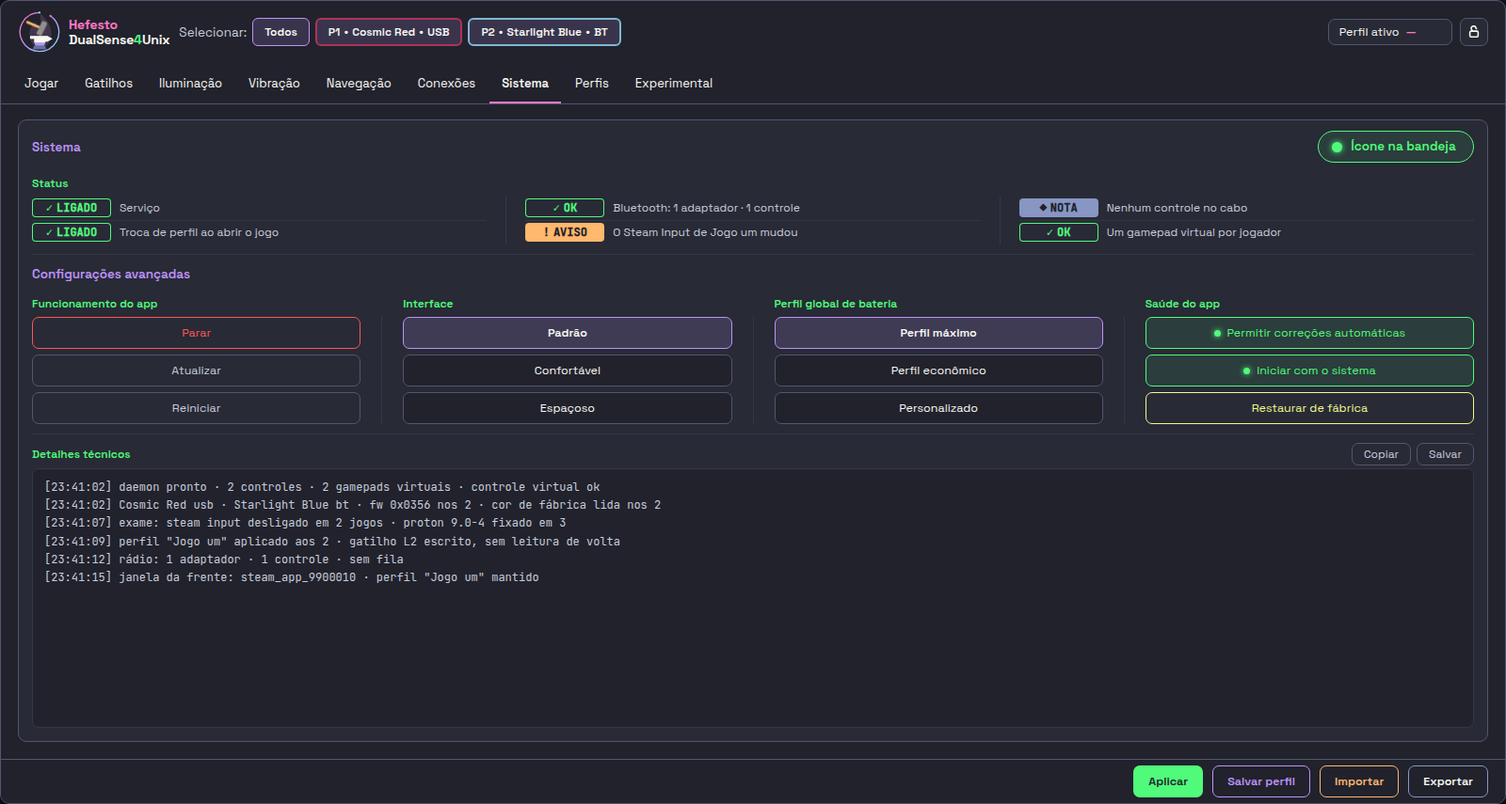
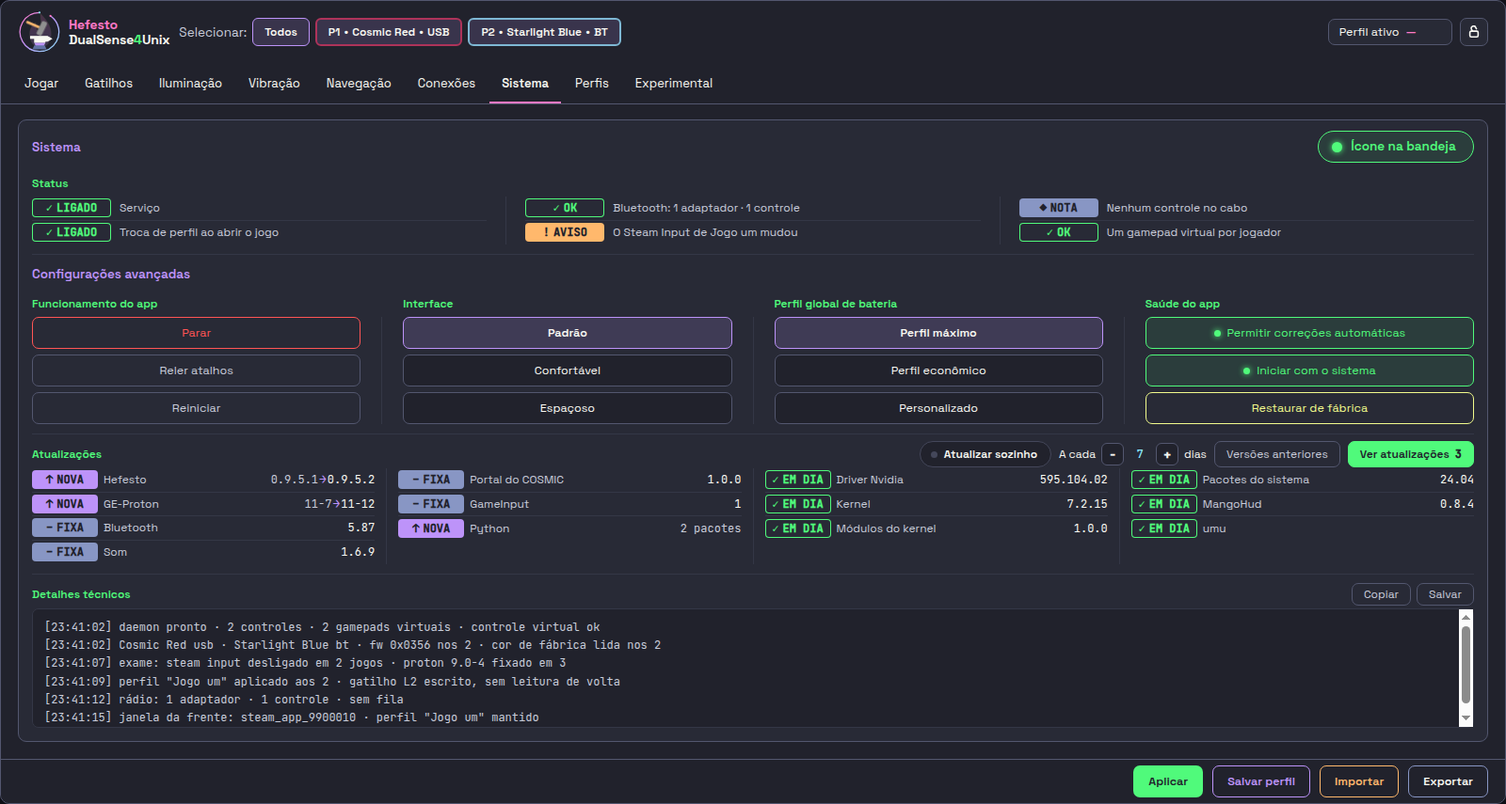
feat(interface): a aba Sistema publicada ganha a seção das atualizações e o «Reler atalhos», o driver se escreve Nvidia, e as citações e as fotos seguem
Origem: D-0811-O-HEFESTO-SE-ATUALIZA-INTEIRO-VOLTA-1

diff --git a/src/hefesto_dualsense4unix/interface/paginas/09-sistema.html b/src/hefesto_dualsense4unix/interface/paginas/09-sistema.html
@@ -424,6 +424,49 @@
   .gl{display:inline-block;vertical-align:-6px;flex:0 0 auto}
   .gls{display:inline-flex;align-items:center;gap:5px}
   .gls .mais{color:var(--fg);font-size:11px;margin:0 1px}
+  .selo.nova{background:var(--purple);color:var(--app-bg)}
+  .at-cab{grid-template-columns:minmax(0,1fr) auto;height:auto}
+  body .sec-rot.at-cab{height:35px !important}
+  .at-cab > span:last-child{display:flex;align-items:center;gap:8px}
+  .at-cab .cadeado{width:auto;height:28px;border-radius:999px;padding:0 14px 0 11px;font-weight:600;font-size:12px}
+  .at-cab .btn{height:28px;padding:0 12px;font-size:12px}
+  .at-cab .btn.verde.cheio{background:var(--green);border-color:var(--green);color:var(--app-bg);font-weight:600;text-decoration:none}
+  .at-cab .btn.verde.cheio:hover{background:color-mix(in srgb,var(--green) 75%,#fff)}
+  .at-cab .btn .n{font-family:'JetBrains Mono',monospace;font-size:12px;margin-left:6px}
+  .prazo{display:inline-block;font-size:12px;font-weight:400;color:var(--fg);white-space:nowrap}
+  .prazo > *{vertical-align:middle;margin-left:6px}
+  .prazo > :first-child{margin-left:0}
+  .prazo .pm{width:24px;height:24px;border-radius:6px;border:1px solid var(--linha);background:var(--app-bg);
+             color:var(--fg);font:600 13px/1 'JetBrains Mono',monospace;cursor:pointer}
+  .prazo .pm:hover{border-color:var(--comment)}
+  .prazo .dias{display:inline-block;min-width:22px;text-align:center;font-family:'JetBrains Mono',monospace;font-weight:500;color:var(--cyan)}
+  .at-grade{display:grid;grid-template-columns:minmax(0,1fr) 1px minmax(0,1fr) 1px minmax(0,1fr) 1px minmax(0,1fr);gap:0 12px;align-items:start}
+  .at-grade .saude .ver{margin-left:auto;font-family:'JetBrains Mono',monospace;font-size:12px;color:var(--texto-suave);white-space:nowrap;min-width:0;display:flex;flex-flow:row-reverse wrap;align-content:flex-start;height:24px;line-height:24px;overflow:hidden}
+  .at-grade .saude .ver:has(.num){display:block;text-align:right;white-space:normal}
+  .at-grade .saude .ver .seta{color:var(--purple);margin:0 3px;flex:none}
+  .at-grade .saude .ver .nv{color:var(--fg);flex:none;order:-1}
+  .at-grade .saude .ver .par{flex:none}
+  .at-grade .saude .ver .num,.at-grade .saude .ver .resto{white-space:nowrap}
+  .at-grade .saude .txt span:last-child{overflow:visible;text-overflow:clip}
+  .at-grade .saude{gap:6px}
+  .at-grade .saude .txt{flex:0 0 auto}
+  body .at-grade .saude .selo{flex:0 0 70px !important;padding-left:4px;padding-right:4px}
+  .at-grade .saude .ver .seta{margin:0 1px}
+  .at-marca{width:16px;height:16px;accent-color:var(--pink);margin:0;flex:0 0 16px;cursor:pointer}
+  .atualiza:not(:has(.at-cab .cadeado.ligada)) .at-marca{display:none}
+  .atualiza:has(.at-cab .cadeado.ligada) .saude:has(.at-marca:not(:checked)) .txt,
+  .atualiza:has(.at-cab .cadeado.ligada) .saude:has(.at-marca:not(:checked)) .ver{color:var(--texto-mudo)}
+  @media (max-height:760px){
+    body .atualiza .sec-alta,body .atualiza + .sec-alta{margin-top:4px !important;padding-top:4px !important}
+    .at-grade{grid-template-columns:repeat(4,minmax(0,1fr));gap:0 24px}
+    .at-grade .saude.fixa{display:none}
+    .at-grade .col-lista{display:contents}
+    .at-grade .risco{display:none}
+    body .sec-rot.at-cab{height:24px !important}
+    .at-cab .cadeado,.at-cab .btn{height:24px}
+    .at-grade .saude{height:19px}
+    .at-grade .selo{padding-top:1px;padding-bottom:1px}
+  }
 
   .fita-linha .perfil-ativo{margin-left:auto}
 </style>
@@ -644,7 +687,7 @@ body .sec-grupo,body .sec-alta{margin-top:10px !important;padding-top:8px !impor
         <div class="avancadas">
           <div class="coluna col-servico">
             <button class="btn vermelho borda-vermelha" data-dica="Os controles viram gamepads comuns. Pergunta antes" data-gesto="parar-ou-retomar" data-campo="parar-ou-retomar-verde" data-hef-alvo="classe" data-hef-classe="verde">Parar</button>
-            <button class="btn" data-dica="Relê os atalhos e os arquivos da Steam" data-gesto="atualizar" data-hef-em-voo="Atualizando…">Atualizar</button>
+            <button class="btn" data-dica="Os atalhos e os arquivos da Steam" data-gesto="atualizar" data-hef-em-voo="Relendo…">Reler atalhos</button>
             <button class="btn so-avulso" data-dica="Faz o serviço subir do jeito certo" data-gesto="corrigir-modo" data-campo="corrigir-modo-quando" data-hef-alvo="classe" data-hef-classe="mostra">Corrigir o serviço</button>
             <div class="acao"><button class="btn" data-campo="reiniciar-razao" data-hef-alvo="classe" data-hef-classe="apagado" data-hef-atributo="aria-disabled" data-hef-razao="sim" data-gesto="reiniciar" title="Para e liga de novo; nenhum ajuste se perde">Reiniciar</button></div>
           </div>
@@ -662,6 +705,15 @@ body .sec-grupo,body .sec-alta{margin-top:10px !important;padding-top:8px !impor
             <button class="cadeado ligada" data-dica="Iniciar com o sistema. Liga o serviço junto com o computador" data-gesto="autostart" data-campo="hefesto-autostart" data-hef-alvo="classe" data-hef-classe="ligada"><span class="p"></span>Iniciar com o sistema</button>
             <button class="btn amarelo-padrao" data-dica="Volta ao padrão; seus perfis salvos ficam. Pergunta antes" data-gesto="restaurar-de-fabrica">Restaurar de fábrica</button>
           </div>
+        </div>
+
+
+        <div class="atualiza">
+        <div class="sec-rot sec-alta at-cab">
+          <span>Atualizações</span>
+          <span><button class="cadeado" data-gesto="atualizar-sozinho" data-campo="atualizar-sozinho" data-hef-alvo="classe" data-hef-classe="ligada" data-dica="Sem pergunta, só com o jogo fechado"><span class="p"></span>Atualizar sozinho</button><span class="prazo" data-dica="Prazo da conferência"><span>A cada</span><button class="pm" data-gesto="prazo-da-atualizacao" data-v="-1" aria-label="Menos um dia">−</button><span class="dias" data-campo="prazo-da-atualizacao">7</span><button class="pm" data-gesto="prazo-da-atualizacao" data-v="1" aria-label="Mais um dia">+</button><span>dias</span></span><button class="btn" data-gesto="atualizacoes-anteriores">Versões anteriores</button><button class="btn verde cheio" data-gesto="atualizacoes-abrir">Ver atualizações<span class="n" data-campo="atualizacoes-novas">3</span></button></span>
+        </div>
+        <div class="at-grade" data-campo="atualizacoes-lista" data-hef-alvo="html"><div class="col-lista"><div class="saude"><input type="checkbox" class="at-marca" data-gesto="peca-da-atualizacao" data-v="hefesto" checked><span class="selo nova"><span class="sg">↑</span>NOVA</span><span class="txt" data-dica="Interface, serviço e correções"><span>Hefesto</span></span><span class="ver" data-dica="0.9.5.1 → 0.9.5.2"><span class="par"><span class="de">0.9.5.1</span><span class="seta">→</span></span><span class="nv">0.9.5.2</span></span></div><div class="saude"><input type="checkbox" class="at-marca" data-gesto="peca-da-atualizacao" data-v="proton" checked><span class="selo nova"><span class="sg">↑</span>NOVA</span><span class="txt" data-dica="Os jogos da Steam e do Heroic"><span>GE-Proton</span></span><span class="ver" data-dica="11-7 → 11-12"><span class="par"><span class="de">11-7</span><span class="seta">→</span></span><span class="nv">11-12</span></span></div><div class="saude fixa"><input type="checkbox" class="at-marca" disabled><span class="selo nt"><span class="sg">&ndash;</span>FIXA</span><span class="txt" data-dica="BlueZ, com as correções do Hefesto · Sobe junto com o Hefesto"><span>Bluetooth</span></span><span class="ver"><span class="nv">5.87</span></span></div><div class="saude fixa"><input type="checkbox" class="at-marca" disabled><span class="selo nt"><span class="sg">&ndash;</span>FIXA</span><span class="txt" data-dica="PipeWire e WirePlumber · Sobe junto com o Hefesto"><span>Som</span></span><span class="ver"><span class="nv">1.6.9</span></span></div></div><div class="risco"></div><div class="col-lista"><div class="saude fixa"><input type="checkbox" class="at-marca" disabled><span class="selo nt"><span class="sg">&ndash;</span>FIXA</span><span class="txt" data-dica="A captura de tela do COSMIC · Sobe junto com o Hefesto"><span>Portal do COSMIC</span></span><span class="ver"><span class="nv">1.0.0</span></span></div><div class="saude fixa"><input type="checkbox" class="at-marca" disabled><span class="selo nt"><span class="sg">&ndash;</span>FIXA</span><span class="txt" data-dica="A peça GDK e o GameInput · Sobe junto com o Hefesto"><span>GameInput</span></span><span class="ver"><span class="nv">1</span></span></div><div class="saude"><input type="checkbox" class="at-marca" data-gesto="peca-da-atualizacao" data-v="python"><span class="selo nova"><span class="sg">↑</span>NOVA</span><span class="txt" data-dica="evdev 1.9.3 → 2.0.0 · pydantic 2.13.5 → 2.14.3"><span>Python</span></span><span class="ver" data-dica="2 pacotes"><span class="num">2</span> <span class="resto">pacotes</span></span></div></div><div class="risco"></div><div class="col-lista"><div class="saude"><input type="checkbox" class="at-marca" data-gesto="peca-da-atualizacao" data-v="nvidia" checked><span class="selo ok"><span class="sg">✓</span>EM DIA</span><span class="txt" data-dica="nvidia-driver-595"><span>Driver Nvidia</span></span><span class="ver"><span class="nv">595.104.02</span></span></div><div class="saude"><input type="checkbox" class="at-marca" data-gesto="peca-da-atualizacao" data-v="kernel" checked><span class="selo ok"><span class="sg">✓</span>EM DIA</span><span class="txt" data-dica="linux-system76"><span>Kernel</span></span><span class="ver"><span class="nv">7.2.15</span></span></div><div class="saude"><input type="checkbox" class="at-marca" data-gesto="peca-da-atualizacao" data-v="dkms" checked><span class="selo ok"><span class="sg">✓</span>EM DIA</span><span class="txt" data-dica="4 módulos · 7.2.15"><span>Módulos do kernel</span></span><span class="ver"><span class="nv">1.0.0</span></span></div></div><div class="risco"></div><div class="col-lista"><div class="saude"><input type="checkbox" class="at-marca" data-gesto="peca-da-atualizacao" data-v="sistema" checked><span class="selo ok"><span class="sg">✓</span>EM DIA</span><span class="txt" data-dica="Pop!_OS 24.04"><span>Pacotes do sistema</span></span><span class="ver"><span class="nv">24.04</span></span></div><div class="saude"><input type="checkbox" class="at-marca" data-gesto="peca-da-atualizacao" data-v="mangohud" checked><span class="selo ok"><span class="sg">✓</span>EM DIA</span><span class="txt" data-dica="O painel por cima do jogo"><span>MangoHud</span></span><span class="ver"><span class="nv">0.8.4</span></span></div><div class="saude"><input type="checkbox" class="at-marca" data-gesto="peca-da-atualizacao" data-v="umu" checked><span class="selo ok"><span class="sg">✓</span>EM DIA</span><span class="txt" data-dica="Os jogos de fora da Steam no Proton"><span>umu</span></span><span class="ver"></span></div></div></div>
         </div>
 
         <div class="sec-rot sr-log sec-alta">

diff --git a/mockup/09-sistema.html b/mockup/09-sistema.html
@@ -713,7 +713,7 @@ body .sec-grupo,body .sec-alta{margin-top:10px !important;padding-top:8px !impor
           <span>Atualizações</span>
           <span><button class="cadeado" data-gesto="atualizar-sozinho" data-campo="atualizar-sozinho" data-hef-alvo="classe" data-hef-classe="ligada" data-dica="Sem pergunta, só com o jogo fechado"><span class="p"></span>Atualizar sozinho</button><span class="prazo" data-dica="Prazo da conferência"><span>A cada</span><button class="pm" data-gesto="prazo-da-atualizacao" data-v="-1" aria-label="Menos um dia">−</button><span class="dias" data-campo="prazo-da-atualizacao">7</span><button class="pm" data-gesto="prazo-da-atualizacao" data-v="1" aria-label="Mais um dia">+</button><span>dias</span></span><button class="btn" data-gesto="atualizacoes-anteriores">Versões anteriores</button><button class="btn verde cheio" data-gesto="atualizacoes-abrir">Ver atualizações<span class="n" data-campo="atualizacoes-novas">3</span></button></span>
         </div>
-        <div class="at-grade" data-campo="atualizacoes-lista" data-hef-alvo="html"><div class="col-lista"><div class="saude"><input type="checkbox" class="at-marca" data-gesto="peca-da-atualizacao" data-v="hefesto" checked><span class="selo nova"><span class="sg">↑</span>NOVA</span><span class="txt" data-dica="Interface, serviço e correções"><span>Hefesto</span></span><span class="ver" data-dica="0.9.5.1 → 0.9.5.2"><span class="par"><span class="de">0.9.5.1</span><span class="seta">→</span></span><span class="nv">0.9.5.2</span></span></div><div class="saude"><input type="checkbox" class="at-marca" data-gesto="peca-da-atualizacao" data-v="proton" checked><span class="selo nova"><span class="sg">↑</span>NOVA</span><span class="txt" data-dica="Os jogos da Steam e do Heroic"><span>GE-Proton</span></span><span class="ver" data-dica="11-7 → 11-12"><span class="par"><span class="de">11-7</span><span class="seta">→</span></span><span class="nv">11-12</span></span></div><div class="saude fixa"><input type="checkbox" class="at-marca" disabled><span class="selo nt"><span class="sg">&ndash;</span>FIXA</span><span class="txt" data-dica="BlueZ, com as correções do Hefesto · Sobe junto com o Hefesto"><span>Bluetooth</span></span><span class="ver"><span class="nv">5.87</span></span></div><div class="saude fixa"><input type="checkbox" class="at-marca" disabled><span class="selo nt"><span class="sg">&ndash;</span>FIXA</span><span class="txt" data-dica="PipeWire e WirePlumber · Sobe junto com o Hefesto"><span>Som</span></span><span class="ver"><span class="nv">1.6.9</span></span></div></div><div class="risco"></div><div class="col-lista"><div class="saude fixa"><input type="checkbox" class="at-marca" disabled><span class="selo nt"><span class="sg">&ndash;</span>FIXA</span><span class="txt" data-dica="A captura de tela do COSMIC · Sobe junto com o Hefesto"><span>Portal do COSMIC</span></span><span class="ver"><span class="nv">1.0.0</span></span></div><div class="saude fixa"><input type="checkbox" class="at-marca" disabled><span class="selo nt"><span class="sg">&ndash;</span>FIXA</span><span class="txt" data-dica="A peça GDK e o GameInput · Sobe junto com o Hefesto"><span>GameInput</span></span><span class="ver"><span class="nv">1</span></span></div><div class="saude"><input type="checkbox" class="at-marca" data-gesto="peca-da-atualizacao" data-v="python"><span class="selo nova"><span class="sg">↑</span>NOVA</span><span class="txt" data-dica="evdev 1.9.3 → 2.0.0 · pydantic 2.13.5 → 2.14.3"><span>Python</span></span><span class="ver" data-dica="2 pacotes"><span class="num">2</span> <span class="resto">pacotes</span></span></div></div><div class="risco"></div><div class="col-lista"><div class="saude"><input type="checkbox" class="at-marca" data-gesto="peca-da-atualizacao" data-v="nvidia" checked><span class="selo ok"><span class="sg">✓</span>EM DIA</span><span class="txt" data-dica="nvidia-driver-595"><span>Driver NVIDIA</span></span><span class="ver"><span class="nv">595.104.02</span></span></div><div class="saude"><input type="checkbox" class="at-marca" data-gesto="peca-da-atualizacao" data-v="kernel" checked><span class="selo ok"><span class="sg">✓</span>EM DIA</span><span class="txt" data-dica="linux-system76"><span>Kernel</span></span><span class="ver"><span class="nv">7.2.15</span></span></div><div class="saude"><input type="checkbox" class="at-marca" data-gesto="peca-da-atualizacao" data-v="dkms" checked><span class="selo ok"><span class="sg">✓</span>EM DIA</span><span class="txt" data-dica="4 módulos · 7.2.15"><span>Módulos do kernel</span></span><span class="ver"><span class="nv">1.0.0</span></span></div></div><div class="risco"></div><div class="col-lista"><div class="saude"><input type="checkbox" class="at-marca" data-gesto="peca-da-atualizacao" data-v="sistema" checked><span class="selo ok"><span class="sg">✓</span>EM DIA</span><span class="txt" data-dica="Pop!_OS 24.04"><span>Pacotes do sistema</span></span><span class="ver"><span class="nv">24.04</span></span></div><div class="saude"><input type="checkbox" class="at-marca" data-gesto="peca-da-atualizacao" data-v="mangohud" checked><span class="selo ok"><span class="sg">✓</span>EM DIA</span><span class="txt" data-dica="O painel por cima do jogo"><span>MangoHud</span></span><span class="ver"><span class="nv">0.8.4</span></span></div><div class="saude"><input type="checkbox" class="at-marca" data-gesto="peca-da-atualizacao" data-v="umu" checked><span class="selo ok"><span class="sg">✓</span>EM DIA</span><span class="txt" data-dica="Os jogos de fora da Steam no Proton"><span>umu</span></span><span class="ver"></span></div></div></div>
+        <div class="at-grade" data-campo="atualizacoes-lista" data-hef-alvo="html"><div class="col-lista"><div class="saude"><input type="checkbox" class="at-marca" data-gesto="peca-da-atualizacao" data-v="hefesto" checked><span class="selo nova"><span class="sg">↑</span>NOVA</span><span class="txt" data-dica="Interface, serviço e correções"><span>Hefesto</span></span><span class="ver" data-dica="0.9.5.1 → 0.9.5.2"><span class="par"><span class="de">0.9.5.1</span><span class="seta">→</span></span><span class="nv">0.9.5.2</span></span></div><div class="saude"><input type="checkbox" class="at-marca" data-gesto="peca-da-atualizacao" data-v="proton" checked><span class="selo nova"><span class="sg">↑</span>NOVA</span><span class="txt" data-dica="Os jogos da Steam e do Heroic"><span>GE-Proton</span></span><span class="ver" data-dica="11-7 → 11-12"><span class="par"><span class="de">11-7</span><span class="seta">→</span></span><span class="nv">11-12</span></span></div><div class="saude fixa"><input type="checkbox" class="at-marca" disabled><span class="selo nt"><span class="sg">&ndash;</span>FIXA</span><span class="txt" data-dica="BlueZ, com as correções do Hefesto · Sobe junto com o Hefesto"><span>Bluetooth</span></span><span class="ver"><span class="nv">5.87</span></span></div><div class="saude fixa"><input type="checkbox" class="at-marca" disabled><span class="selo nt"><span class="sg">&ndash;</span>FIXA</span><span class="txt" data-dica="PipeWire e WirePlumber · Sobe junto com o Hefesto"><span>Som</span></span><span class="ver"><span class="nv">1.6.9</span></span></div></div><div class="risco"></div><div class="col-lista"><div class="saude fixa"><input type="checkbox" class="at-marca" disabled><span class="selo nt"><span class="sg">&ndash;</span>FIXA</span><span class="txt" data-dica="A captura de tela do COSMIC · Sobe junto com o Hefesto"><span>Portal do COSMIC</span></span><span class="ver"><span class="nv">1.0.0</span></span></div><div class="saude fixa"><input type="checkbox" class="at-marca" disabled><span class="selo nt"><span class="sg">&ndash;</span>FIXA</span><span class="txt" data-dica="A peça GDK e o GameInput · Sobe junto com o Hefesto"><span>GameInput</span></span><span class="ver"><span class="nv">1</span></span></div><div class="saude"><input type="checkbox" class="at-marca" data-gesto="peca-da-atualizacao" data-v="python"><span class="selo nova"><span class="sg">↑</span>NOVA</span><span class="txt" data-dica="evdev 1.9.3 → 2.0.0 · pydantic 2.13.5 → 2.14.3"><span>Python</span></span><span class="ver" data-dica="2 pacotes"><span class="num">2</span> <span class="resto">pacotes</span></span></div></div><div class="risco"></div><div class="col-lista"><div class="saude"><input type="checkbox" class="at-marca" data-gesto="peca-da-atualizacao" data-v="nvidia" checked><span class="selo ok"><span class="sg">✓</span>EM DIA</span><span class="txt" data-dica="nvidia-driver-595"><span>Driver Nvidia</span></span><span class="ver"><span class="nv">595.104.02</span></span></div><div class="saude"><input type="checkbox" class="at-marca" data-gesto="peca-da-atualizacao" data-v="kernel" checked><span class="selo ok"><span class="sg">✓</span>EM DIA</span><span class="txt" data-dica="linux-system76"><span>Kernel</span></span><span class="ver"><span class="nv">7.2.15</span></span></div><div class="saude"><input type="checkbox" class="at-marca" data-gesto="peca-da-atualizacao" data-v="dkms" checked><span class="selo ok"><span class="sg">✓</span>EM DIA</span><span class="txt" data-dica="4 módulos · 7.2.15"><span>Módulos do kernel</span></span><span class="ver"><span class="nv">1.0.0</span></span></div></div><div class="risco"></div><div class="col-lista"><div class="saude"><input type="checkbox" class="at-marca" data-gesto="peca-da-atualizacao" data-v="sistema" checked><span class="selo ok"><span class="sg">✓</span>EM DIA</span><span class="txt" data-dica="Pop!_OS 24.04"><span>Pacotes do sistema</span></span><span class="ver"><span class="nv">24.04</span></span></div><div class="saude"><input type="checkbox" class="at-marca" data-gesto="peca-da-atualizacao" data-v="mangohud" checked><span class="selo ok"><span class="sg">✓</span>EM DIA</span><span class="txt" data-dica="O painel por cima do jogo"><span>MangoHud</span></span><span class="ver"><span class="nv">0.8.4</span></span></div><div class="saude"><input type="checkbox" class="at-marca" data-gesto="peca-da-atualizacao" data-v="umu" checked><span class="selo ok"><span class="sg">✓</span>EM DIA</span><span class="txt" data-dica="Os jogos de fora da Steam no Proton"><span>umu</span></span><span class="ver"></span></div></div></div>
         </div>
 
         <div class="sec-rot sr-log sec-alta">

diff --git a/mockup/escolha/a-pergunta-da-atualizacao.html b/mockup/escolha/a-pergunta-da-atualizacao.html
@@ -315,7 +315,7 @@ button[data-dica],a[data-dica],select[data-dica],input[data-dica],[role="button"
             <label class="at-l filho"><input type="checkbox" checked data-conta data-filho="a"><span class="at-n" data-dica="BlueZ, com as correções do Hefesto">Bluetooth</span><span class="at-v">5.87<span class="seta">→</span><span class="nv">5.88</span></span><span class="selo nova">NOVA</span></label>
             <label class="at-l filho"><input type="checkbox" checked data-conta data-filho="a"><span class="at-n" data-dica="PipeWire 1.6.11 e WirePlumber 0.5.19">Som</span><span class="at-v">1.6.9<span class="seta">→</span><span class="nv">1.6.11</span></span><span class="selo nova">NOVA</span></label>
             <label class="at-l filho de-fora"><input type="checkbox" data-conta data-filho="a"><span class="at-n" data-dica="evdev 1.9.3 → 2.0.0 · pydantic 2.13.5 → 2.14.3">Python</span><span class="at-v">2 pacotes</span><span class="selo nova">NOVA</span></label>
-            <label class="at-l filho"><span class="at-ok">✓</span><span class="at-n" data-dica="nvidia-driver-595">Driver NVIDIA</span><span class="at-v"><span class="nv">595.104.02</span></span><span class="selo ok">EM DIA</span></label>
+            <label class="at-l filho"><span class="at-ok">✓</span><span class="at-n" data-dica="nvidia-driver-595">Driver Nvidia</span><span class="at-v"><span class="nv">595.104.02</span></span><span class="selo ok">EM DIA</span></label>
             <label class="at-l filho"><span class="at-ok">✓</span><span class="at-n" data-dica="linux-system76">Kernel</span><span class="at-v"><span class="nv">7.2.15</span></span><span class="selo ok">EM DIA</span></label>
             <label class="at-l filho"><span class="at-ok">✓</span><span class="at-n" data-dica="Os quatro módulos do Hefesto para o 7.2.15">Módulos do kernel</span><span class="at-v"><span class="nv">1.0.0</span></span><span class="selo ok">EM DIA</span></label>
             <label class="at-l filho"><span class="at-ok">✓</span><span class="at-n" data-dica="Pop!_OS 24.04">Pacotes do sistema</span><span class="at-v"><span class="nv">24.04</span></span><span class="selo ok">EM DIA</span></label>
@@ -356,7 +356,7 @@ button[data-dica],a[data-dica],select[data-dica],input[data-dica],[role="button"
             <label class="at-l "><input type="checkbox" checked data-conta data-filho="a"><span class="at-n" data-dica="BlueZ, com as correções do Hefesto">Bluetooth</span><span class="at-v">5.87<span class="seta">→</span><span class="nv">5.88</span></span><span class="selo nova">NOVA</span></label>
             <label class="at-l "><input type="checkbox" checked data-conta data-filho="a"><span class="at-n" data-dica="PipeWire 1.6.11 e WirePlumber 0.5.19">Som</span><span class="at-v">1.6.9<span class="seta">→</span><span class="nv">1.6.11</span></span><span class="selo nova">NOVA</span></label>
             <label class="at-l  de-fora"><input type="checkbox" data-conta data-filho="a"><span class="at-n" data-dica="evdev 1.9.3 → 2.0.0 · pydantic 2.13.5 → 2.14.3">Python</span><span class="at-v">2 pacotes</span><span class="selo nova">NOVA</span></label>
-            <label class="at-l "><span class="at-ok">✓</span><span class="at-n" data-dica="nvidia-driver-595">Driver NVIDIA</span><span class="at-v"><span class="nv">595.104.02</span></span><span class="selo ok">EM DIA</span></label>
+            <label class="at-l "><span class="at-ok">✓</span><span class="at-n" data-dica="nvidia-driver-595">Driver Nvidia</span><span class="at-v"><span class="nv">595.104.02</span></span><span class="selo ok">EM DIA</span></label>
             <label class="at-l "><span class="at-ok">✓</span><span class="at-n" data-dica="linux-system76">Kernel</span><span class="at-v"><span class="nv">7.2.15</span></span><span class="selo ok">EM DIA</span></label>
             <label class="at-l "><span class="at-ok">✓</span><span class="at-n" data-dica="Os quatro módulos do Hefesto para o 7.2.15">Módulos do kernel</span><span class="at-v"><span class="nv">1.0.0</span></span><span class="selo ok">EM DIA</span></label>
             <label class="at-l "><span class="at-ok">✓</span><span class="at-n" data-dica="Pop!_OS 24.04">Pacotes do sistema</span><span class="at-v"><span class="nv">24.04</span></span><span class="selo ok">EM DIA</span></label>
@@ -391,7 +391,7 @@ button[data-dica],a[data-dica],select[data-dica],input[data-dica],[role="button"
                 <label class="at-l c-l filho sel-lista"><input type="checkbox" checked data-conta><span class="at-n">Bluetooth</span><span class="selo nova">NOVA</span></label>
                 <label class="at-l c-l filho"><input type="checkbox" checked data-conta><span class="at-n">Som</span><span class="selo nova">NOVA</span></label>
                 <label class="at-l c-l filho"><input type="checkbox" data-conta><span class="at-n">Python</span><span class="selo nova">NOVA</span></label>
-                <label class="at-l c-l filho"><span class="at-ok">✓</span><span class="at-n">Driver NVIDIA</span><span class="selo ok">EM DIA</span></label>
+                <label class="at-l c-l filho"><span class="at-ok">✓</span><span class="at-n">Driver Nvidia</span><span class="selo ok">EM DIA</span></label>
                 <label class="at-l c-l filho sel-voltar"><span class="at-ok">✓</span><span class="at-n">Kernel</span><span class="selo ok">EM DIA</span></label>
                 <label class="at-l c-l filho"><span class="at-ok">✓</span><span class="at-n">Módulos do kernel</span><span class="selo ok">EM DIA</span></label>
                 <label class="at-l c-l filho"><span class="at-ok">✓</span><span class="at-n">Pacotes do sistema</span><span class="selo ok">EM DIA</span></label>

diff --git a/mockup/escolha/09-sistema-com-atualizacoes.html b/mockup/escolha/09-sistema-com-atualizacoes.html
@@ -701,7 +701,7 @@ body .sec-grupo,body .sec-alta{margin-top:10px !important;padding-top:8px !impor
           <div class="risco"></div>
           <div class="col-lista">
             <div class="saude"><input type="checkbox" class="at-marca" data-gesto="peca-da-atualizacao"><span class="selo nova"><span class="sg">↑</span>NOVA</span><span class="txt" data-dica="evdev 1.9.3 → 2.0.0 · pydantic 2.13.5 → 2.14.3"><span>Python</span></span><span class="ver">2 pacotes</span></div>
-            <div class="saude"><input type="checkbox" class="at-marca" data-gesto="peca-da-atualizacao" checked><span class="selo ok"><span class="sg">✓</span>EM DIA</span><span class="txt" data-dica="nvidia-driver-595"><span>Driver NVIDIA</span></span><span class="ver"><span class="nv">595.104.02</span></span></div>
+            <div class="saude"><input type="checkbox" class="at-marca" data-gesto="peca-da-atualizacao" checked><span class="selo ok"><span class="sg">✓</span>EM DIA</span><span class="txt" data-dica="nvidia-driver-595"><span>Driver Nvidia</span></span><span class="ver"><span class="nv">595.104.02</span></span></div>
             <div class="saude"><input type="checkbox" class="at-marca" data-gesto="peca-da-atualizacao" checked><span class="selo ok"><span class="sg">✓</span>EM DIA</span><span class="txt" data-dica="linux-system76"><span>Kernel</span></span><span class="ver"><span class="nv">7.2.15</span></span></div>
             <div class="saude"><input type="checkbox" class="at-marca" data-gesto="peca-da-atualizacao" checked><span class="selo ok"><span class="sg">✓</span>EM DIA</span><span class="txt" data-dica="Os quatro módulos do Hefesto para o 7.2.15"><span>Módulos do kernel</span></span><span class="ver"><span class="nv">1.0.0</span></span></div>
           </div>

diff --git a/src/hefesto_dualsense4unix/interface/aba09.py b/src/hefesto_dualsense4unix/interface/aba09.py
@@ -439,7 +439,7 @@ def _secao_das_atualizacoes():
             ("portal", "Portal do COSMIC", "A captura de tela do COSMIC", "1.0.0", "", "fixa", False, 2, ""),
             ("gdk", "GameInput", "A peça GDK e o GameInput", "1", "", "fixa", False, 2, ""),
             ("python", "Python", "evdev 1.9.3 → 2.0.0 · pydantic 2.13.5 → 2.14.3", "", "2", "nova", False, 1, "2 pacotes"),
-            ("nvidia", "Driver NVIDIA", "nvidia-driver-595", "595.104.02", "595.104.02", "em_dia", True, 1, ""),
+            ("nvidia", "Driver Nvidia", "nvidia-driver-595", "595.104.02", "595.104.02", "em_dia", True, 1, ""),
             ("kernel", "Kernel", "linux-system76", "7.2.15", "7.2.15", "em_dia", True, 1, ""),
             ("dkms", "Módulos do kernel", "4 módulos · 7.2.15", "1.0.0", "1.0.0", "em_dia", True, 1, ""),
             ("sistema", "Pacotes do sistema", "Pop!_OS 24.04", "24.04", "24.04", "em_dia", True, 1, ""),

diff --git a/src/hefesto_dualsense4unix/app/actions/pecas_do_atualizador.py b/src/hefesto_dualsense4unix/app/actions/pecas_do_atualizador.py
@@ -785,7 +785,7 @@ def registro() -> list[Peca]:
              "Os jogos com a peça", versoes_da_gdk, volta=2),
         Peca("python", "Python", "As bibliotecas do Hefesto", "O serviço e a janela",
              versoes_do_python, _baixar_o_python, _instalar_o_python, None, _voltar_o_python),
-        Peca("nvidia", "Driver NVIDIA", "O driver da placa de vídeo", "No próximo início",
+        Peca("nvidia", "Driver Nvidia", "O driver da placa de vídeo", "No próximo início",
              versoes_da_nvidia, _do_apt("nvidia", "baixar"), _do_apt("nvidia", "instalar"),
              _limpar),
         Peca("kernel", "Kernel", "O kernel do sistema", "No próximo início",

diff --git a/tests/unit/test_a_pergunta_da_atualizacao_na_tela.py b/tests/unit/test_a_pergunta_da_atualizacao_na_tela.py
@@ -282,7 +282,7 @@ def test_na_grade_a_versao_cede_antes_do_rotulo() -> None:
     from hefesto_dualsense4unix.interface import aba09
 
     conferencia = {"pecas": [
-        {"id": "nvidia", "nome": "Driver NVIDIA", "estado": "nova", "de": "595.104.02",
+        {"id": "nvidia", "nome": "Driver Nvidia", "estado": "nova", "de": "595.104.02",
          "para": "595.110.07", "marcada": True, "volta": 1},
         {"id": "sistema", "nome": "Pacotes do sistema", "estado": "em_dia", "de": "24.04",
          "para": "24.04", "rotulo": "12 pacotes", "marcada": True, "volta": 1}]}

diff --git a/src/hefesto_dualsense4unix/interface/pacotes/a09_sistema.py b/src/hefesto_dualsense4unix/interface/pacotes/a09_sistema.py
@@ -1593,12 +1593,7 @@ SUFIXO_DA_RAZAO = "-razao"
 
 BOTOES_CINZAS = ("reiniciar",)
 
-ESPERA_A_PUBLICACAO: dict[str, str] = {
-    campo: "a seção das atualizações (O-HEFESTO-SE-ATUALIZA-INTEIRO-01). O `data-campo` está "
-           "em `mockup/09-sistema.html` e chega ao produto no `--publicar 09`."
-    for campo in ("atualizar-sozinho", "prazo-da-atualizacao", "atualizacoes-novas",
-                  "atualizacoes-lista")
-}
+ESPERA_A_PUBLICACAO: dict[str, str] = {}
 
 
 def razoes_do_cinza(ctx: Contexto) -> dict[str, str]:

diff --git a/tests/unit/portao_a_casa_sabe_e_o_produto_nao_faz.py b/tests/unit/portao_a_casa_sabe_e_o_produto_nao_faz.py
@@ -2995,7 +2995,7 @@ class TestOPortaoMorde:
         ), (
             "a varredura não vê despacho por STRING — `getattr(pin, "
             '"lock_proton_for_all_games", None)` em '
-            "`src/hefesto_dualsense4unix/interface/pacotes/a09_sistema.py:2540` "
+            "`src/hefesto_dualsense4unix/interface/pacotes/a09_sistema.py:2535` "
             "(`lock_proton_for_all_games`) é o ÚNICO caminho "
             "deste "
             "símbolo. Foi assim que a passada anterior errou cinco vezes numa "

diff --git a/mockup/DIVERGENCIAS.md b/mockup/DIVERGENCIAS.md
@@ -26,6 +26,3 @@ seção daqui**: a aba deixou de estar em trabalho.
 
 ## 08-conexoes.html
 - **07/11/2026** — a frase da falta na linha do controle sem ponte, em três opções, no molde `opcoes-da-falta` abaixo da sala. Enquanto a escolha não vem, `a08_conexoes.OPCAO_DA_FALTA` fica vazia e o produto não mostra frase nenhuma. Escolher é gravar a letra nessa constante, o que tira o bloco do desenho, e rodar o `--publicar 08`.
-
-## 09-sistema.html
-- **08/11/2026** — a seção das atualizações (O-HEFESTO-SE-ATUALIZA-INTEIRO-01): a grade das onze peças, o «Atualizar sozinho», o prazo, «Versões anteriores» e «Ver atualizações», e o «Atualizar» do serviço que vira «Reler atalhos». O pacote já emite os quatro endereços (`a09_sistema.ESPERA_A_PUBLICACAO`); chega ao produto no `--publicar 09`. Até publicar, a aba Sistema do produto continua sem a seção e com o «Atualizar» do serviço: os quatro endereços não acham casa, e a pergunta das atualizações aparece sozinha por cima de qualquer aba quando o prazo vence.
